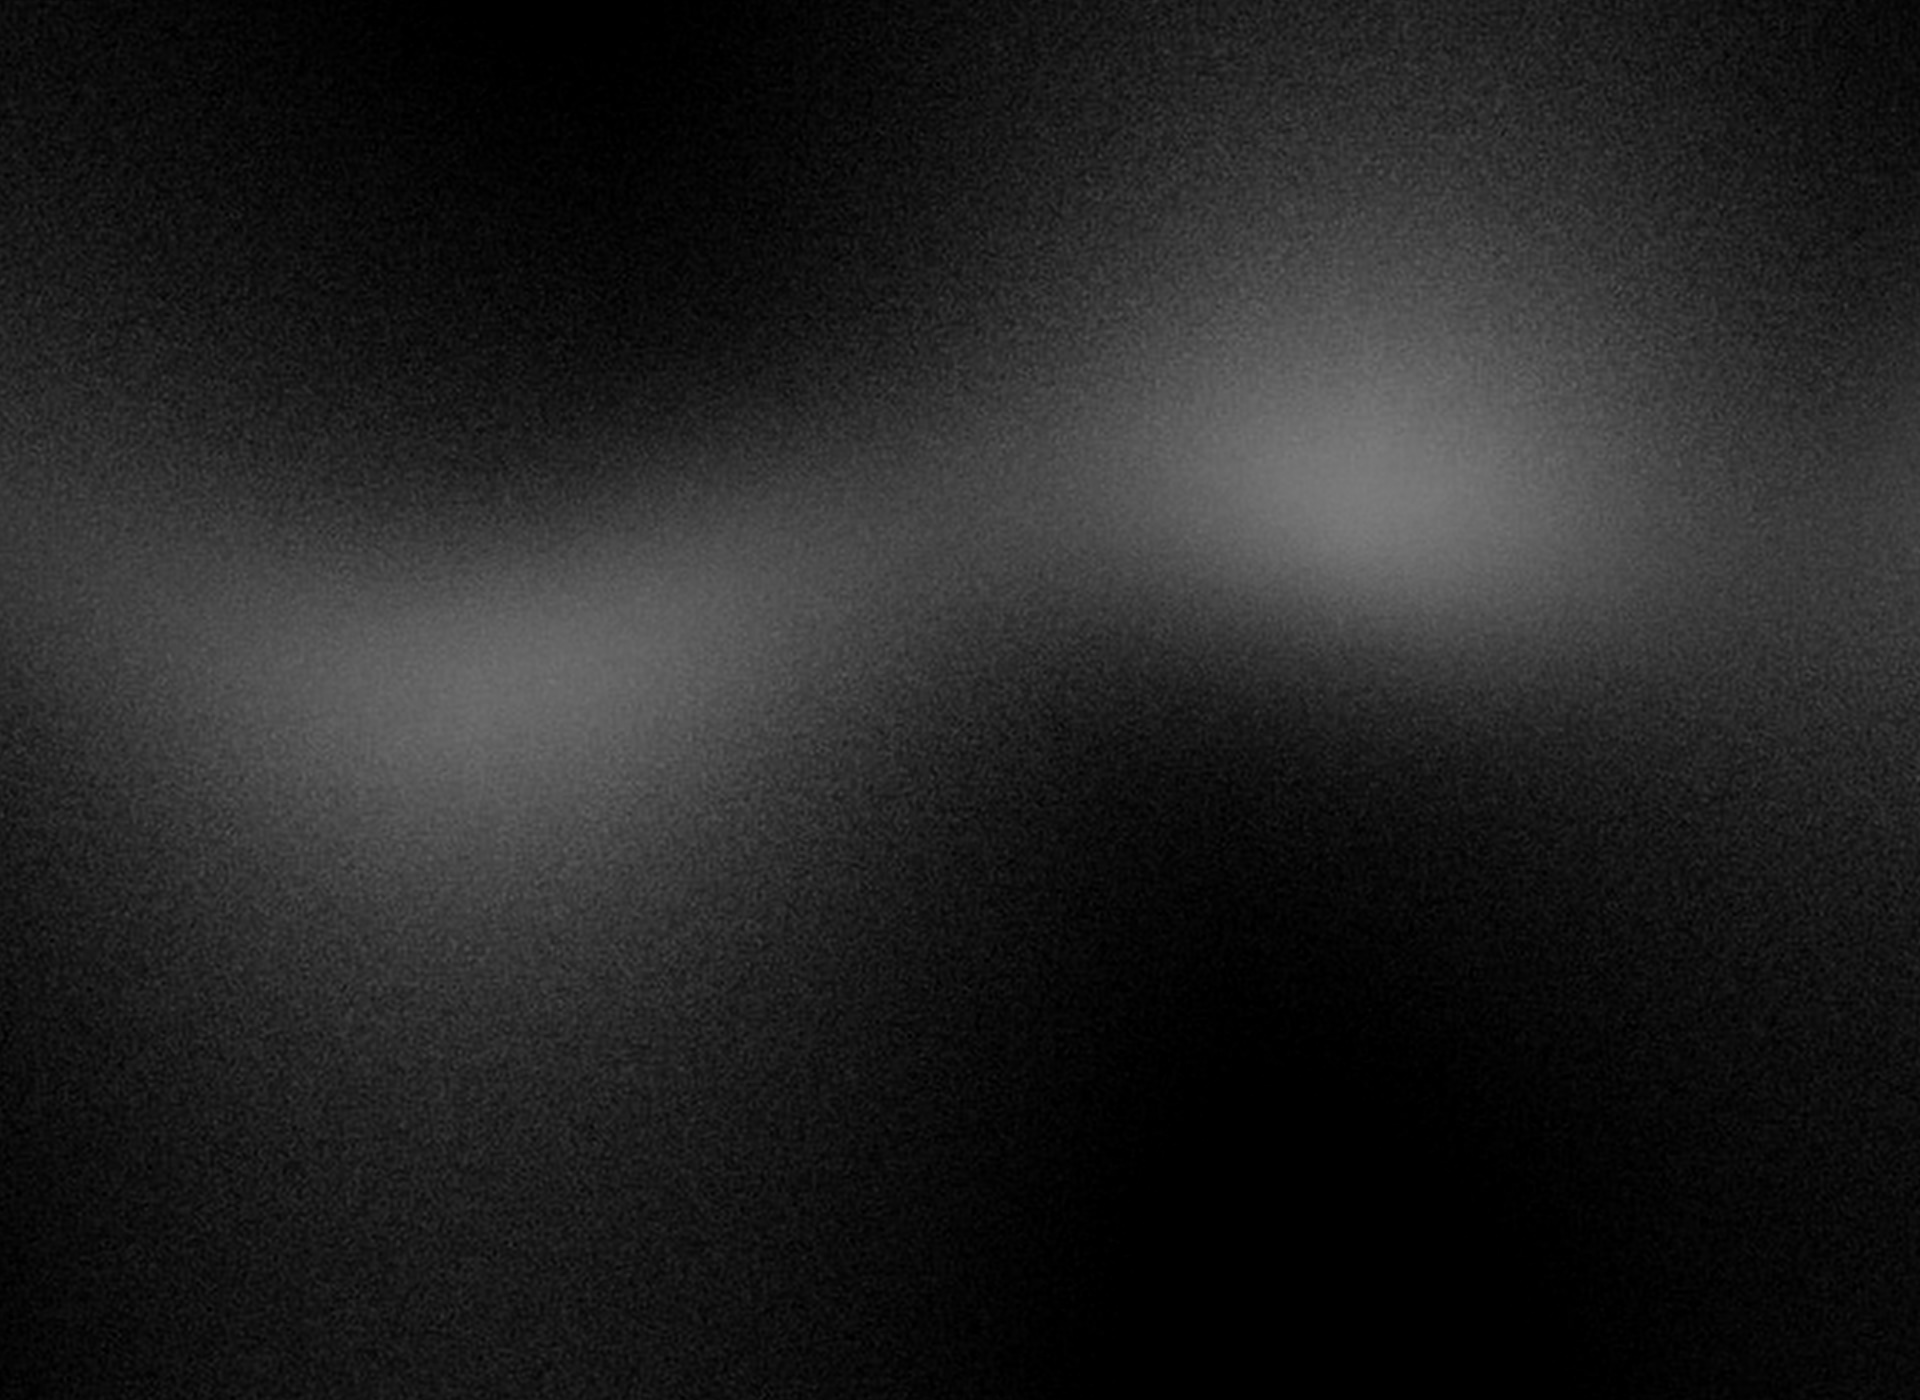
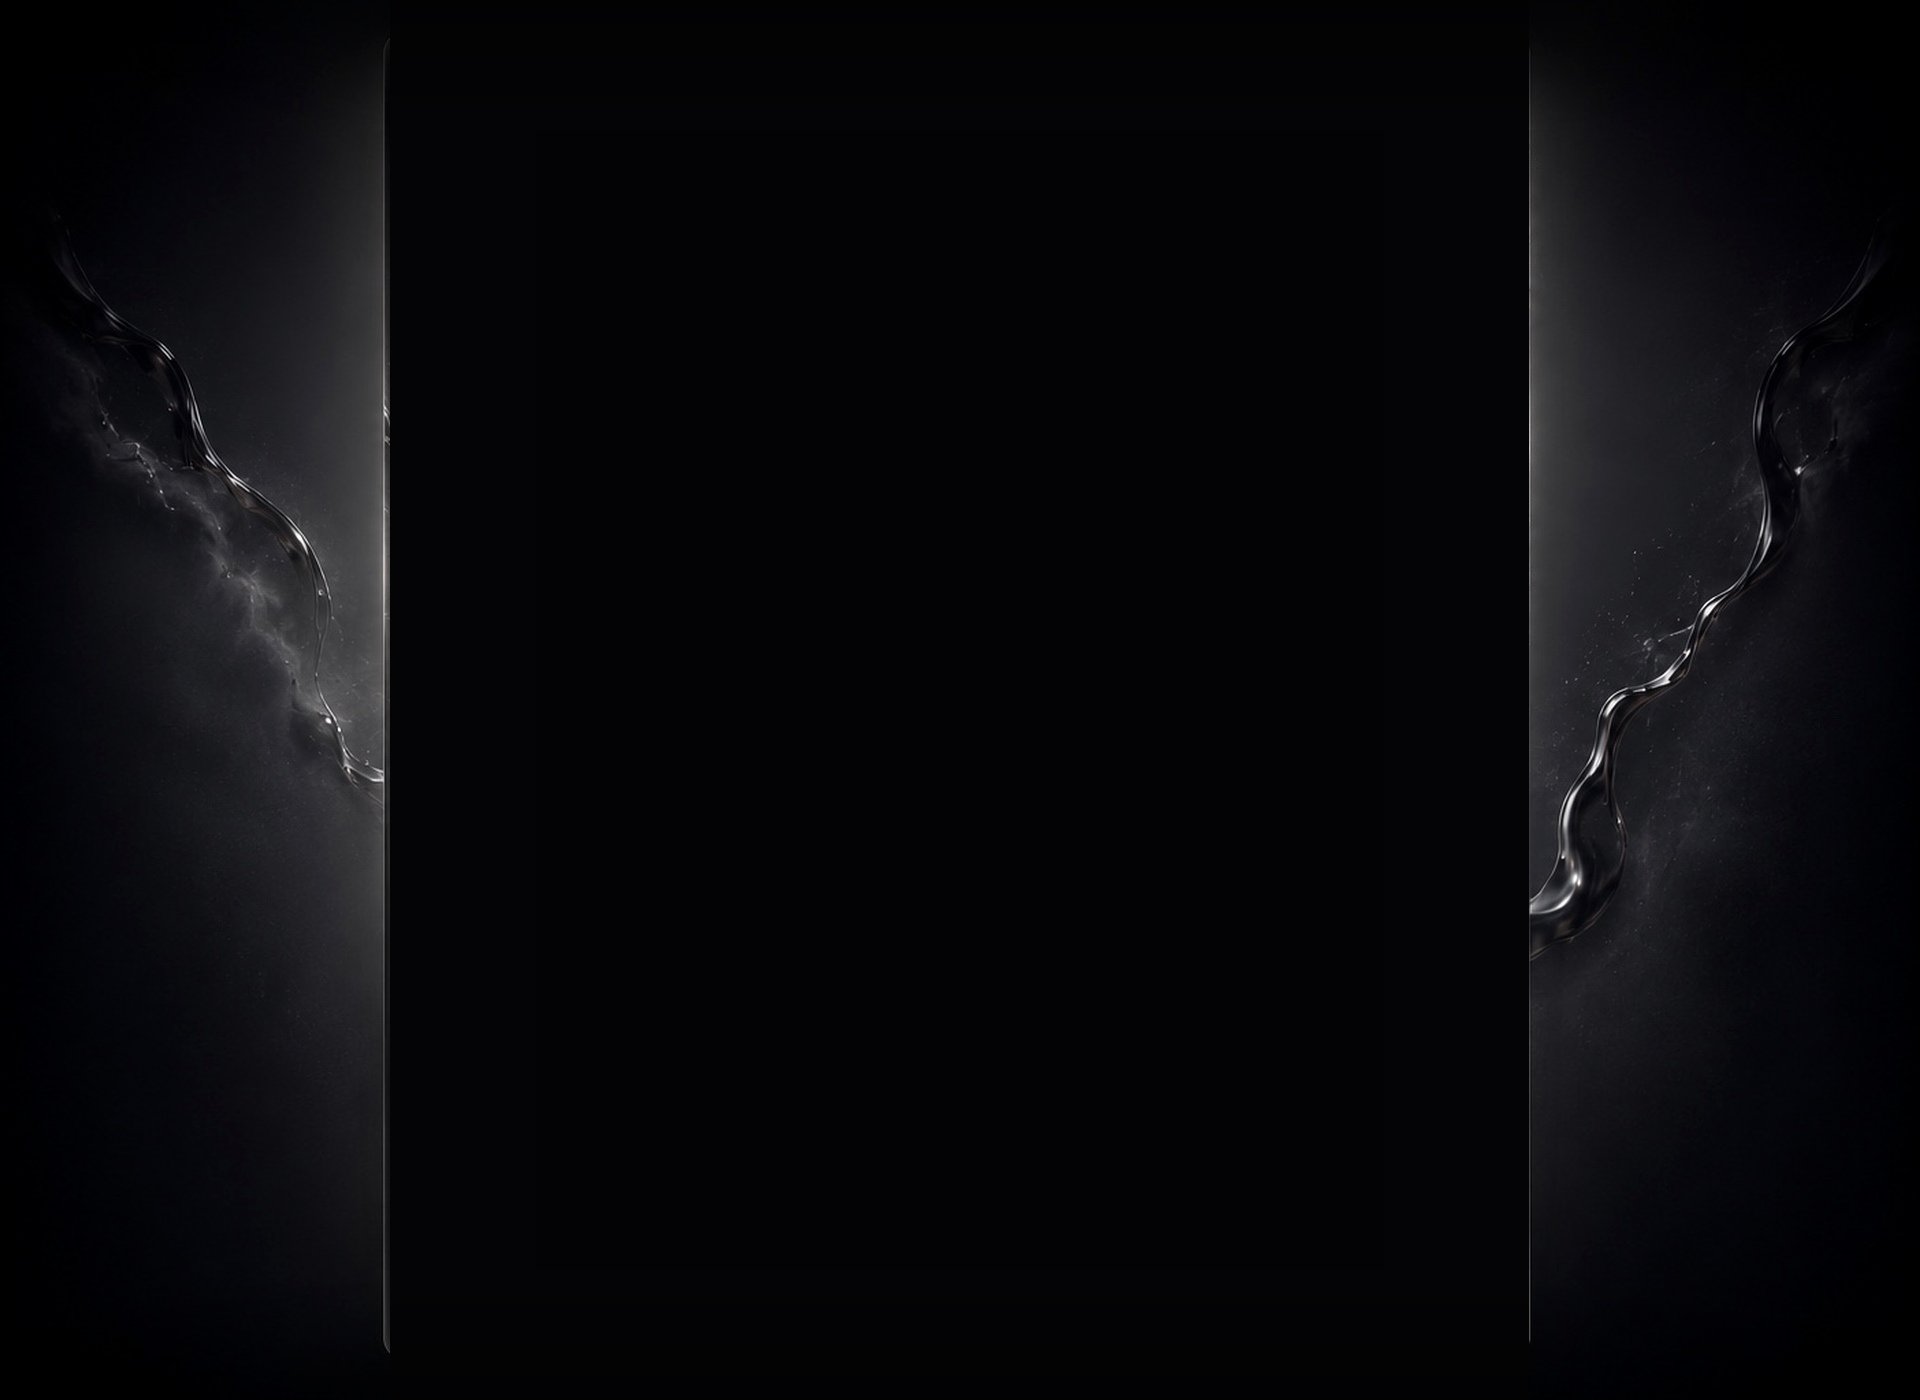
Add files via upload

diff --git a/styles.css b/styles.css
@@ -371,7 +371,7 @@ body{min-height:100vh}
     inset:0;
     z-index:0;
     background:
-      #050507 url("assets/side-background-exact.jpeg")
+      #050507 url("assets/side-background-gradient-noise.png")
       center top / cover no-repeat;
     pointer-events:none;
   }

diff --git a/README.md b/README.md
@@ -1,10 +1,14 @@
-# BILLIONAIRES CLUB — чистая главная + длинный загрузочный экран
+# BILLIONAIRES CLUB — градиентный фон с шумом
 
-Изменено:
-- убраны все hover-эффекты с кнопок и карточек на главной странице;
-- убраны hover-эффекты с верхних иконок на главной;
-- анимации внутри разделов и уроков сохранены;
-- загрузочный экран с двумя логотипами снова длится примерно 3,5 секунды;
-- остальные функции сайта не изменены.
+Изменено только одно:
+- боковой фон под основной страницей заменён на лёгкий чёрно-серый градиент с шумом.
+
+Не менялось:
+- стартовая страница;
+- карточки;
+- видео;
+- анимации;
+- загрузочный экран;
+- ссылки и навигация.
 
 Загрузите все файлы из архива в GitHub поверх текущих и нажмите Commit changes.